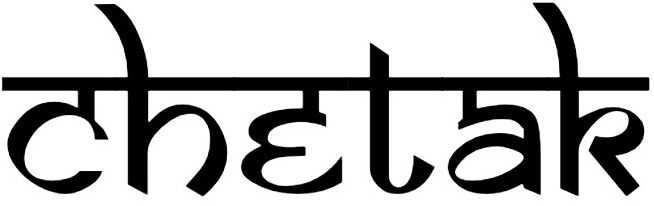
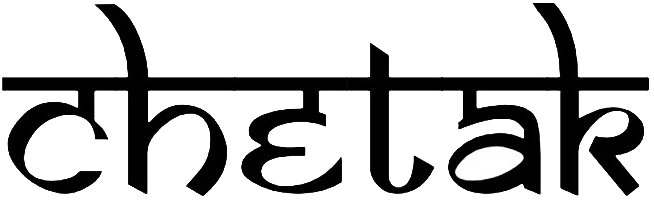
improved

diff --git a/maptesting.html b/maptesting.html
@@ -1,0 +1,95 @@
+<!DOCTYPE html>
+<html lang="en">
+<head>
+    <meta charset="UTF-8">
+    <meta name="viewport" content="width=device-width, initial-scale=1.0">
+    <title>Hospital Route Map (OSRM)</title>
+    <link rel="stylesheet" href="https://unpkg.com/leaflet/dist/leaflet.css" />
+    <style>
+        #map { height: 500px; width: 100%; }
+    </style>
+</head>
+<body>
+
+    <h2>Find the Route to a Nearby Hospital</h2>
+    <div id="map"></div>
+
+    <script src="https://unpkg.com/leaflet/dist/leaflet.js"></script>
+    <script>
+        // Replace with actual user location (latitude, longitude)
+        const userLocation = { lat: 19.0760, lng: 72.8777 }; // Example: Mumbai
+
+        // Nearby hospitals (Replace with actual lat/lng)
+        const hospitals = [
+            { name: "Hospital A", lat: 19.0880, lng: 72.8800 },
+            { name: "Hospital B", lat: 19.0650, lng: 72.8700 },
+            { name: "Hospital C", lat: 19.0800, lng: 72.8900 },
+            { name : "Sasural", lat :19.064900, lng:72.889804}
+        ];
+
+        // Initialize Leaflet Map
+        const map = L.map('map').setView([userLocation.lat, userLocation.lng], 14);
+
+        // Add OpenStreetMap tiles
+        L.tileLayer('https://{s}.tile.openstreetmap.org/{z}/{x}/{y}.png', {
+            attribution: '&copy; OpenStreetMap contributors'
+        }).addTo(map);
+
+        // Add marker for user's location
+        L.marker([userLocation.lat, userLocation.lng])
+            .addTo(map)
+            .bindPopup("Your Location")
+            .openPopup();
+
+        // Add hospital markers
+        hospitals.forEach(hospital => {
+            L.marker([hospital.lat, hospital.lng])
+                .addTo(map)
+                .bindPopup(
+                    `<b>${hospital.name}</b><br>
+                     <button onclick="getOSRMRoute(${hospital.lat}, ${hospital.lng})">
+                     Get Route</button>`
+                );
+        });
+
+        let routeLayer; // Store the drawn route
+
+        // Function to fetch and display the route using OSRM
+        function getOSRMRoute(destLat, destLng) {
+            const url = `https://router.project-osrm.org/route/v1/driving/${userLocation.lng},${userLocation.lat};${destLng},${destLat}?overview=full&geometries=geojson`;
+
+            fetch(url)
+                .then(response => response.json())
+                .then(data => {
+                    if (!data.routes || data.routes.length === 0) {
+                        alert("No route found! Try another location.");
+                        console.error("No route found:", data);
+                        return;
+                    }
+
+                    const routeCoords = data.routes[0].geometry.coordinates.map(coord => [coord[1], coord[0]]);
+
+                    // Remove previous route if it exists
+                    if (routeLayer) {
+                        map.removeLayer(routeLayer);
+                    }
+
+                    // Draw new route
+                    routeLayer = L.polyline(routeCoords, { color: "blue", weight: 5 }).addTo(map);
+                    map.fitBounds(routeLayer.getBounds());
+
+                    // Log step-by-step directions (optional)
+                    console.log("Directions:");
+                    data.routes[0].legs[0].steps.forEach((step, index) => {
+                        console.log(`${index + 1}. ${step.maneuver.instruction}`);
+                    });
+                })
+                .catch(error => {
+                    console.error("Error fetching OSRM route:", error);
+                    alert("Error fetching route. Try again later.");
+                });
+        }
+    </script>
+
+</body>
+</html>

diff --git a/dashboard.html b/dashboard.html
@@ -1,0 +1,51 @@
+<!DOCTYPE html>
+<html lang="en">
+<head>
+    <meta charset="UTF-8">
+    <meta name="viewport" content="width=device-width, initial-scale=1.0">
+    <title>Chetak - Dashboard</title>
+    <link rel="stylesheet" href="styles.css"> {/* Optional: Reuse main styles */}
+    <style>
+        /* Add specific styles for dashboard if needed */
+        main { padding: 30px; text-align: center; }
+        .dashboard-item { border: 1px solid #ccc; padding: 20px; margin: 15px; border-radius: 8px; background: #fff; box-shadow: 0 2px 4px rgba(0,0,0,0.1);}
+    </style>
+</head>
+<body>
+    <header>
+        {/* Simplified Header or reuse from index.html */}
+        <div><img src="banner.jpg" id="website-name" alt="Website Banner"></div>
+        <div><a href="index.html" style="color:white; text-decoration: none;">Home</a></div>
+    </header>
+
+    <main>
+        <h1>System Dashboard (Conceptual)</h1>
+        <p>This dashboard provides an overview of the Chetak system's status and activity.</p>
+
+        <div class="dashboard-item">
+            <h2>Real-time Map View</h2>
+            <p>(Placeholder for a map showing active requests or hospital locations)</p>
+        </div>
+
+        <div class="dashboard-item">
+            <h2>Hospital Status Overview</h2>
+            <p>(Placeholder for viewing ICU beds, specialist availability, etc. - Requires backend data)</p>
+            <ul>
+                <li>City General: 5/10 ICU beds free</li>
+                <li>St. Mary's: Cardiologist Available</li>
+                <li>Metro Emergency: High Alert</li>
+            </ul>
+        </div>
+
+         <div class="dashboard-item">
+            <h2>System Statistics</h2>
+            <p>(Placeholder for showing requests per hour/day, average routing time, etc.)</p>
+        </div>
+
+    </main>
+
+    <footer>
+        <div>Chetak Emergency Services</div>
+    </footer>
+</body>
+</html>

diff --git a/about.html b/about.html
@@ -5,7 +5,6 @@
     <meta name="viewport" content="width=device-width, initial-scale=1.0">
     <title>About Chetak</title>
     <link rel="stylesheet" href="styles.css">
-    {/* --- ADD FONT AWESOME --- */}
     <link rel="stylesheet" href="https://cdnjs.cloudflare.com/ajax/libs/font-awesome/6.5.1/css/all.min.css" integrity="sha512-DTOQO9RWCH3ppGqcWaEA1BIZOC6xxalwEsw9c2QQeAIftl+Vegovlnee1c9QX4TctnWMn13TZye+giMm8e2LwA==" crossorigin="anonymous" referrerpolicy="no-referrer" />
      <style>
         /* Styles remain the same */
@@ -51,7 +50,7 @@
 <body>
      <header>
         <div id="hamburger-menu">☰</div>
-        <div><img src="banner.jpg" id="website-name" alt="Website Banner"></div>
+        <div><img src="banner-removebg-preview.png" id="website-name" alt="Website Banner"></div>
         <div><img src="logo.jpg" id="logo" alt="Logo"></div>
     </header>
      <div id="dropdown-menu" class="hidden">

diff --git a/exp1.html b/exp1.html
@@ -1,0 +1,24 @@
+  <html>
+    <head>
+        <title>Experiment-1</title>
+    </head>
+    <body>
+        <header id="header" align="center">Website Name</header>
+        <nav id="navbar" align="center">
+            <a href="exp1.html">Home</a>
+            <a href="about.html">About</a>
+            <a href="contact.html">Contact</a>
+        </nav>
+        <article align="left">
+            <h2>Left Section</h2>
+            <p>This is the left section of the website.</p>
+        </article>1
+        <article align="right">
+            <h2>Right Section</h2>
+            <p>This is the right section of the website.</p>
+        </article>
+        <footer id="footer" align="center">
+            Contact us on <a href="mailto:team.1@gmail.com">team.1@gmail.com</a>
+        </footer>
+    </body>
+</html>

diff --git a/contact.html b/contact.html
@@ -35,7 +35,7 @@
 <body>
      <header>
         <div id="hamburger-menu">☰</div>
-        <div><img src="banner.jpg" id="website-name" alt="Website Banner"></div>
+        <div><img src="banner-removebg-preview.png" id="website-name" alt="Website Banner"></div>
         <div><img src="logo.jpg" id="logo" alt="Logo"></div>
     </header>
       <div id="dropdown-menu" class="hidden">

diff --git a/index.html b/index.html
@@ -9,7 +9,7 @@
 <body>
     <header>
         <div id="hamburger-menu">☰</div>
-        <div><img src="banner.jpg" id="website-name" alt="Website Banner"></div>
+        <div><img src="banner-removebg-preview.png" id="website-name" alt="Website Banner"></div>
         <div><img src="logo.jpg" id="logo" alt="Logo"></div>
     </header>
 

diff --git a/map-index.html b/map-index.html
@@ -23,7 +23,7 @@
 
     <header>
         <h1>Chetak Emergency Route</h1>
-        <div><img src="banner.jpg" id="website-name" alt="Website Banner"></div>
+        <div><img src="banner-removebg-preview.png" id="website-name" alt="Website Banner"></div>
         <div><img src="logo.jpg" id="logo" alt="Logo"></div>
     </header>
 

diff --git a/styles.css b/styles.css
@@ -12,7 +12,7 @@ header {
     display: flex;
     justify-content: space-between;
     align-items: center;
-    background: linear-gradient(to right, #2c3e50, #3498db);
+    background: linear-gradient(to right, #15518e, #3498db);
     padding: 10px;
     box-shadow: 0 2px 5px rgba(0,0,0,0.2);
 }
